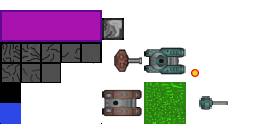
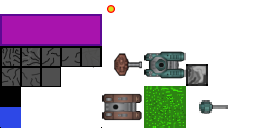
Added customs cursor

diff --git a/core/src/com/devkasatkin87/game/tanks/GameScreen.java b/core/src/com/devkasatkin87/game/tanks/GameScreen.java
@@ -8,6 +8,7 @@ import com.badlogic.gdx.graphics.g2d.SpriteBatch;
 import com.badlogic.gdx.graphics.g2d.TextureAtlas;
 import com.badlogic.gdx.graphics.g2d.TextureRegion;
 import com.badlogic.gdx.math.MathUtils;
+import com.badlogic.gdx.math.Vector2;
 import com.badlogic.gdx.scenes.scene2d.Group;
 import com.badlogic.gdx.scenes.scene2d.InputEvent;
 import com.badlogic.gdx.scenes.scene2d.Stage;
@@ -26,9 +27,12 @@ public class GameScreen implements Screen {
     private Map map;
     private BotEmitter botEmitter;
     private float gameTimer;
+    private float worldTimer;
     private TextureAtlas atlas;
     private Stage stage;
     private boolean paused;
+    private Vector2 mousePosition;
+    private TextureRegion cursor;
 
     private static final boolean FRIENDLY_FIRE = false;
 
@@ -49,10 +53,15 @@ public class GameScreen implements Screen {
         this.batch = batch;
     }
 
+    public Vector2 getMousePosition() {
+        return mousePosition;
+    }
+
     @Override
     public void show() {
         atlas = new TextureAtlas("game.pack");
         font24 = new BitmapFont(Gdx.files.internal("font24.fnt"));
+        cursor = new TextureRegion(atlas.findRegion("cursor"));
         playerTank = new PlayerTank(this, atlas);
         bulletsEmitter = new BulletsEmitter(atlas);
         map = new Map(atlas);
@@ -61,6 +70,7 @@ public class GameScreen implements Screen {
         gameTimer = 6.0f;
 
         stage = new Stage();
+        mousePosition = new Vector2();
         Skin skin = new Skin();
         skin.add("simpleButton", new TextureRegion(atlas.findRegion("SimpleButton")));
         TextButton.TextButtonStyle textButtonStyle = new TextButton.TextButtonStyle();
@@ -89,6 +99,7 @@ public class GameScreen implements Screen {
         group.setPosition(1140, 640);
         stage.addActor(group);
         Gdx.input.setInputProcessor(stage);
+        Gdx.input.setCursorCatched(true);
     }
 
     @Override
@@ -109,6 +120,7 @@ public class GameScreen implements Screen {
         bulletsEmitter.render(batch);
         playerTank.humanHUD(batch, font24);
         stage.draw();
+        batch.draw(cursor, mousePosition.x - cursor.getRegionWidth() / 2, mousePosition.y - cursor.getRegionHeight() / 2, cursor.getRegionWidth() / 2, cursor.getRegionHeight() / 2, cursor.getRegionWidth(), cursor.getRegionHeight(), 1, 1, -worldTimer * 25);
         batch.end();
     }
 
@@ -138,8 +150,11 @@ public class GameScreen implements Screen {
     }
 
     public void update(float dt) {
+        mousePosition.set(Gdx.input.getX(), Gdx.input.getY());
+        ScreenManager.getInstance().getViewport().unproject(mousePosition);
         if (!paused) {
             gameTimer += dt;
+            worldTimer += dt;
             if (gameTimer > 10.0f) {
                 gameTimer = 0.0f;
 

diff --git a/core/src/com/devkasatkin87/game/tanks/unit/PlayerTank.java b/core/src/com/devkasatkin87/game/tanks/unit/PlayerTank.java
@@ -63,11 +63,7 @@ public class PlayerTank extends Tank{
     public void update(float dt) {
         checkMovement(dt);
 
-        tmp.set(Gdx.input.getX(), Gdx.input.getY());
-
-        ScreenManager.getInstance().getViewport().unproject(tmp);
-
-        rotateTurretToPoint(tmp.x, tmp.y, dt);
+        rotateTurretToPoint(game.getMousePosition().x, game.getMousePosition().y, dt);
 
         if (Gdx.input.isTouched()) {
             fire();

diff --git a/desktop/src/com/devkasatkin87/game/tanks/desktop/DesktopLauncher.java b/desktop/src/com/devkasatkin87/game/tanks/desktop/DesktopLauncher.java
@@ -9,6 +9,7 @@ public class DesktopLauncher {
 		LwjglApplicationConfiguration config = new LwjglApplicationConfiguration();
 		config.width = 1280;
 		config.height = 720;
+
 		new LwjglApplication(new TanksMainClass(), config);
 	}
 }
